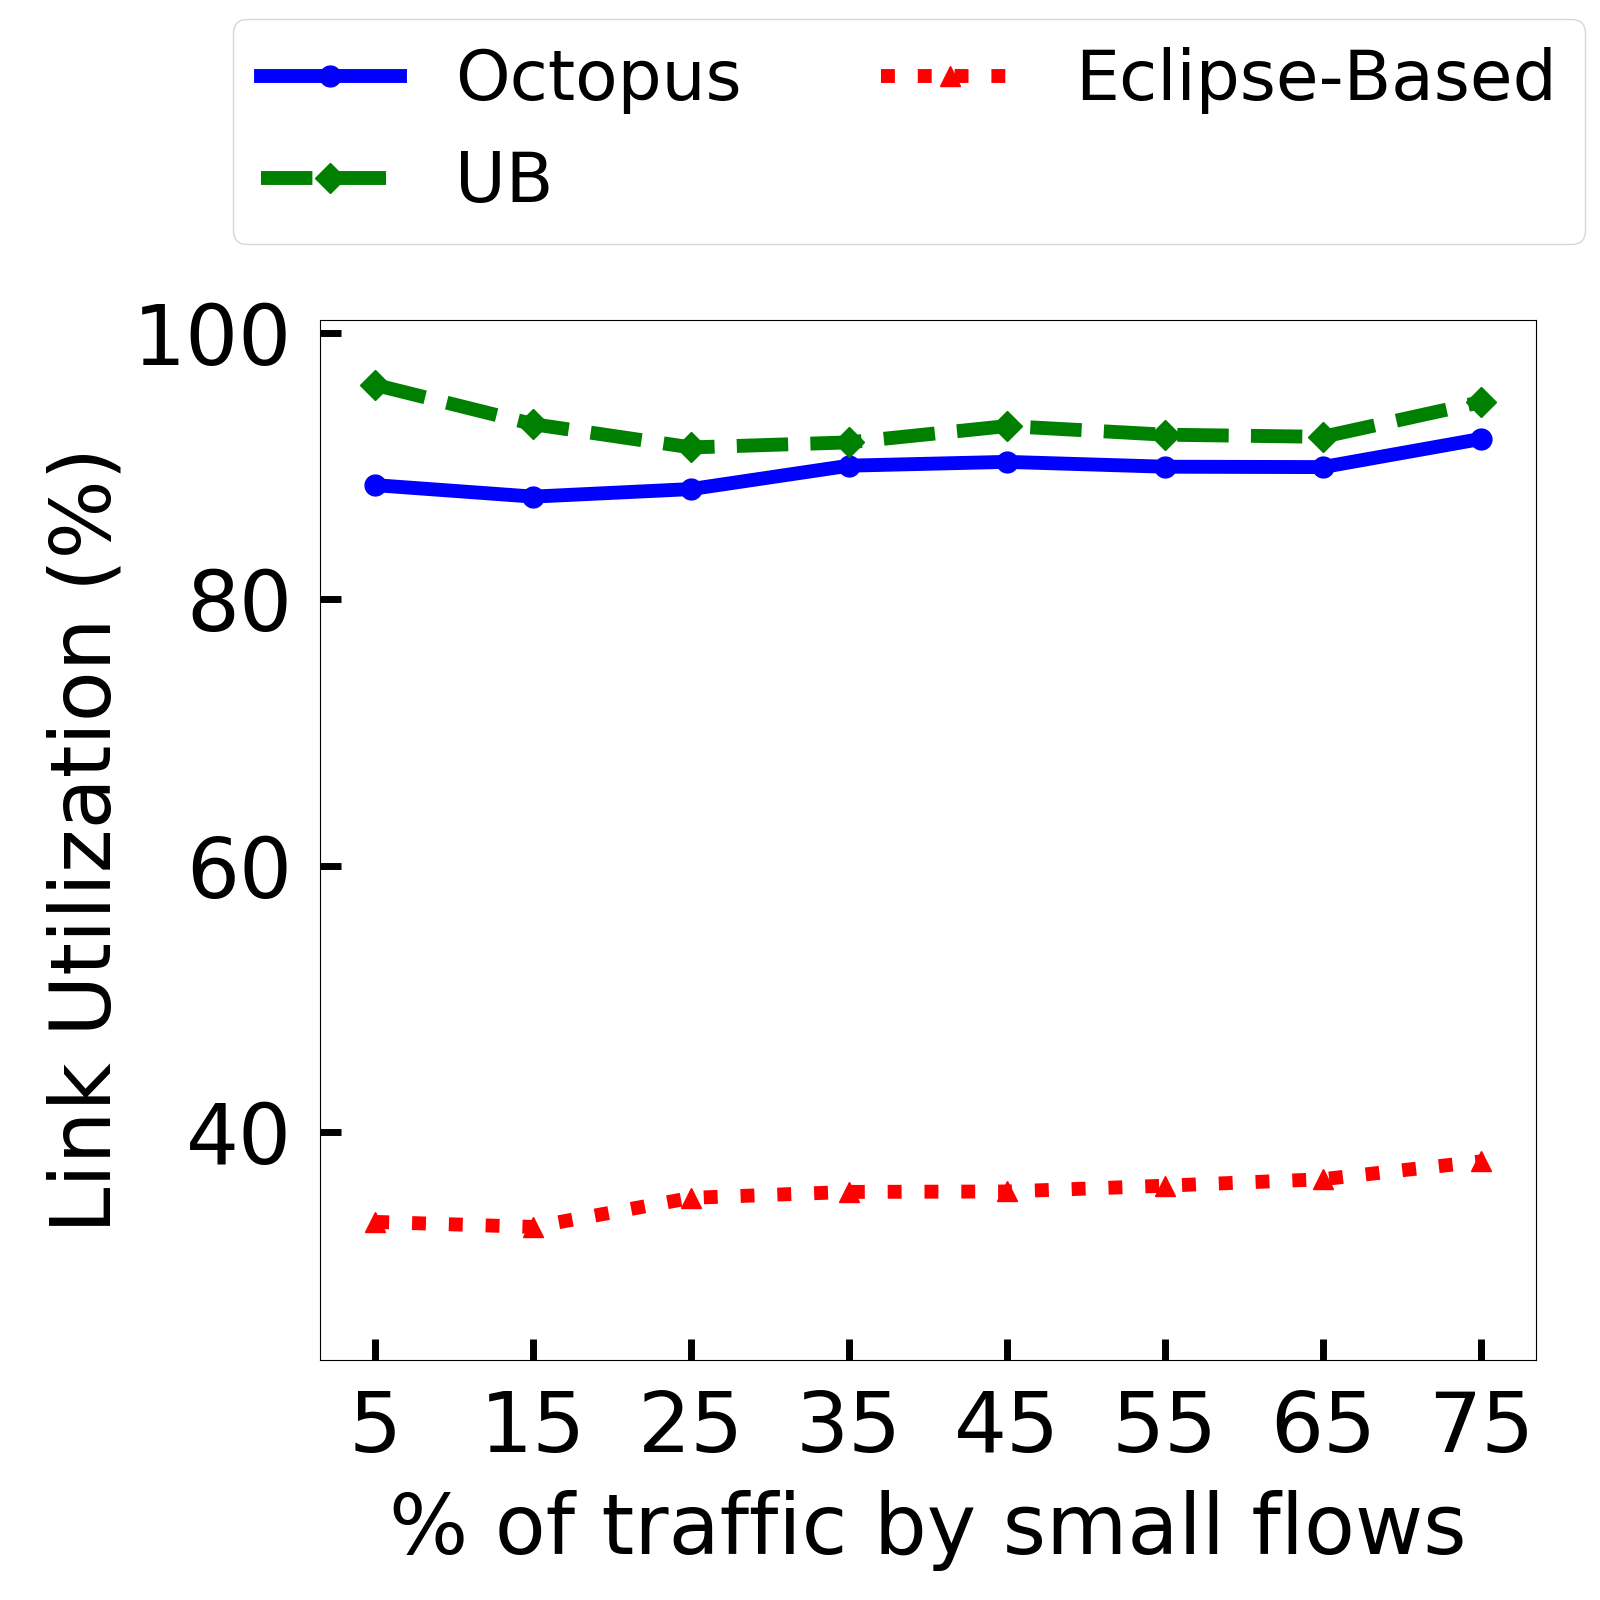
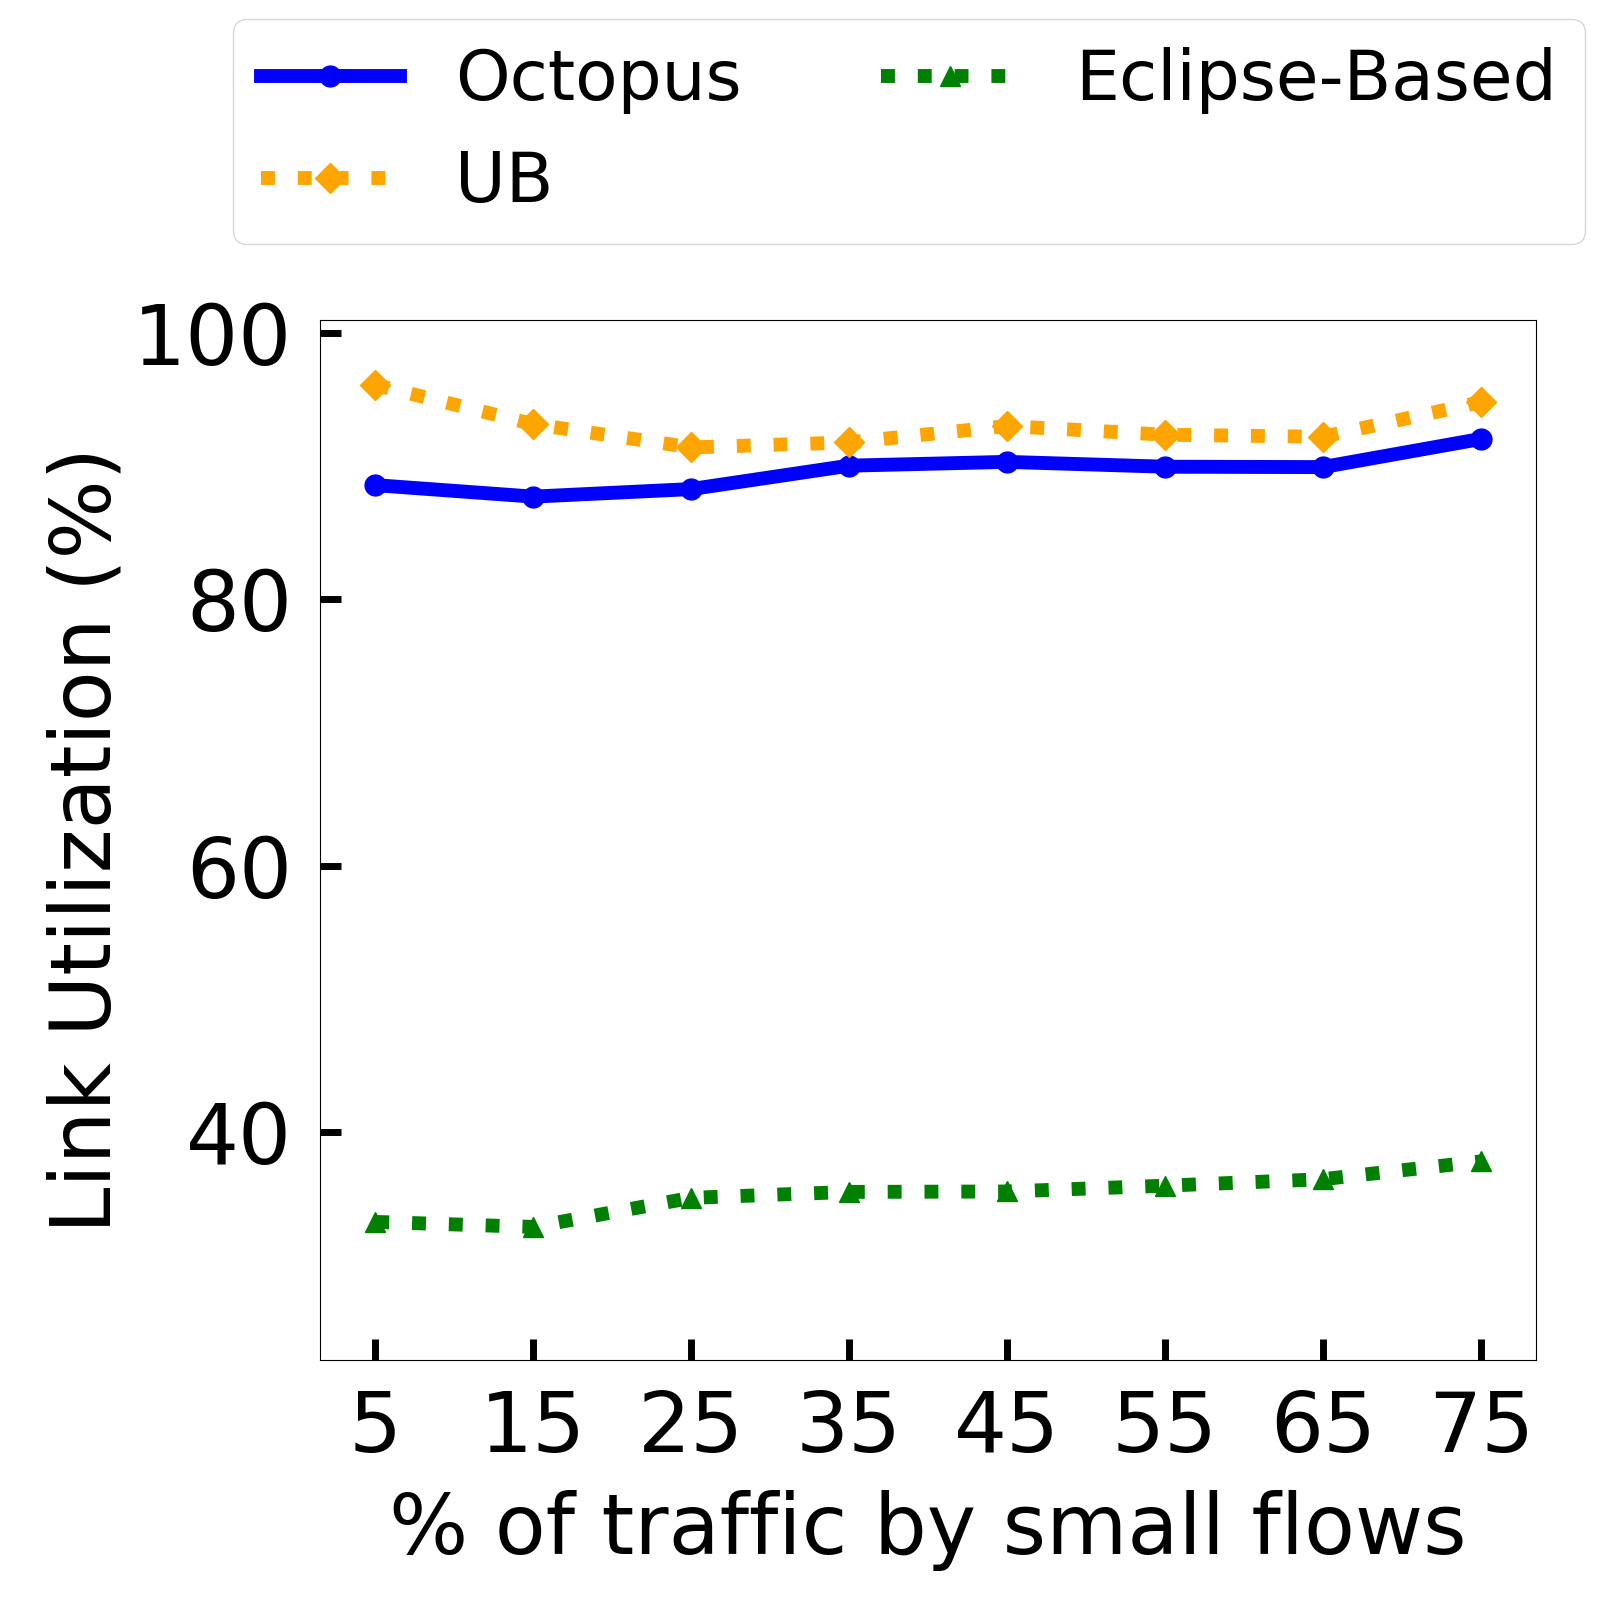
update plots

diff --git a/plots.py b/plots.py
@@ -38,10 +38,10 @@ def y_fmt(tick_val, pos):
 
 
 
-METHOD  = ['Octopus', 'Octopus+', 'Octopus-e', 'Eclipse-Based', 'UB', 'Absolute-UB']
-_COLOR  = ['b',       'c',        'm',         'r',             'g',  'orange']
-_MARKER = ['o',       'h',        's',         '^',             'D',  'P']
-_LINE   = ['-',       '--',       '-',         ':',             '--', '-.']
+METHOD  = ['Octopus', 'Octopus+', 'Octopus-e', 'Eclipse-Based', 'UB',      'Absolute-UB']
+_COLOR  = ['b',       'c',        'olive',         'g',             'orange',  'r']
+_MARKER = ['o',       'h',        's',         '^',             'D',       'P']
+_LINE   = ['-',       ':',        ':',         ':',             ':',       '-']
 COLOR   = dict(zip(METHOD, _COLOR))
 MARKER  = dict(zip(METHOD, _MARKER))
 LINE    = dict(zip(METHOD, _LINE))
@@ -238,7 +238,7 @@ def plot2(path):
 		plt.legend(bbox_to_anchor=(-0.18, 1.04), loc='lower left', ncol=4, fontsize=45)
 		ax.tick_params(axis='y', direction='in', length=10, width=3, pad=15)
 		ax.set_ylabel(metric_)
-		ax.set_xlabel('Varies Clusters')
+		ax.set_xlabel('Various Facebook and Microsoft Clusters')
 		plt.xticks(ind, ['FB-1', 'FB-2', 'FB-3', 'MS-1', 'MS-2', 'MS-3'], fontsize=45)
 		plt.savefig('{}/{}-real_traffic'.format(path, metric))
 
@@ -290,7 +290,7 @@ def plot3(path):
 	methods  = ['octopus-r', 'upper-bound', 'eclipse']
 	methods_ = ['Octopus',     'UB',          'Eclipse-Based']
 	metric   = ['percent_objective_value']
-	metric_  = [ '(Packet Deliver)/(Obj. $\\psi$)']
+	metric_  = [ 'Packets Del. as a % of $\\psi$']
 
 	reduce_func = average
 
